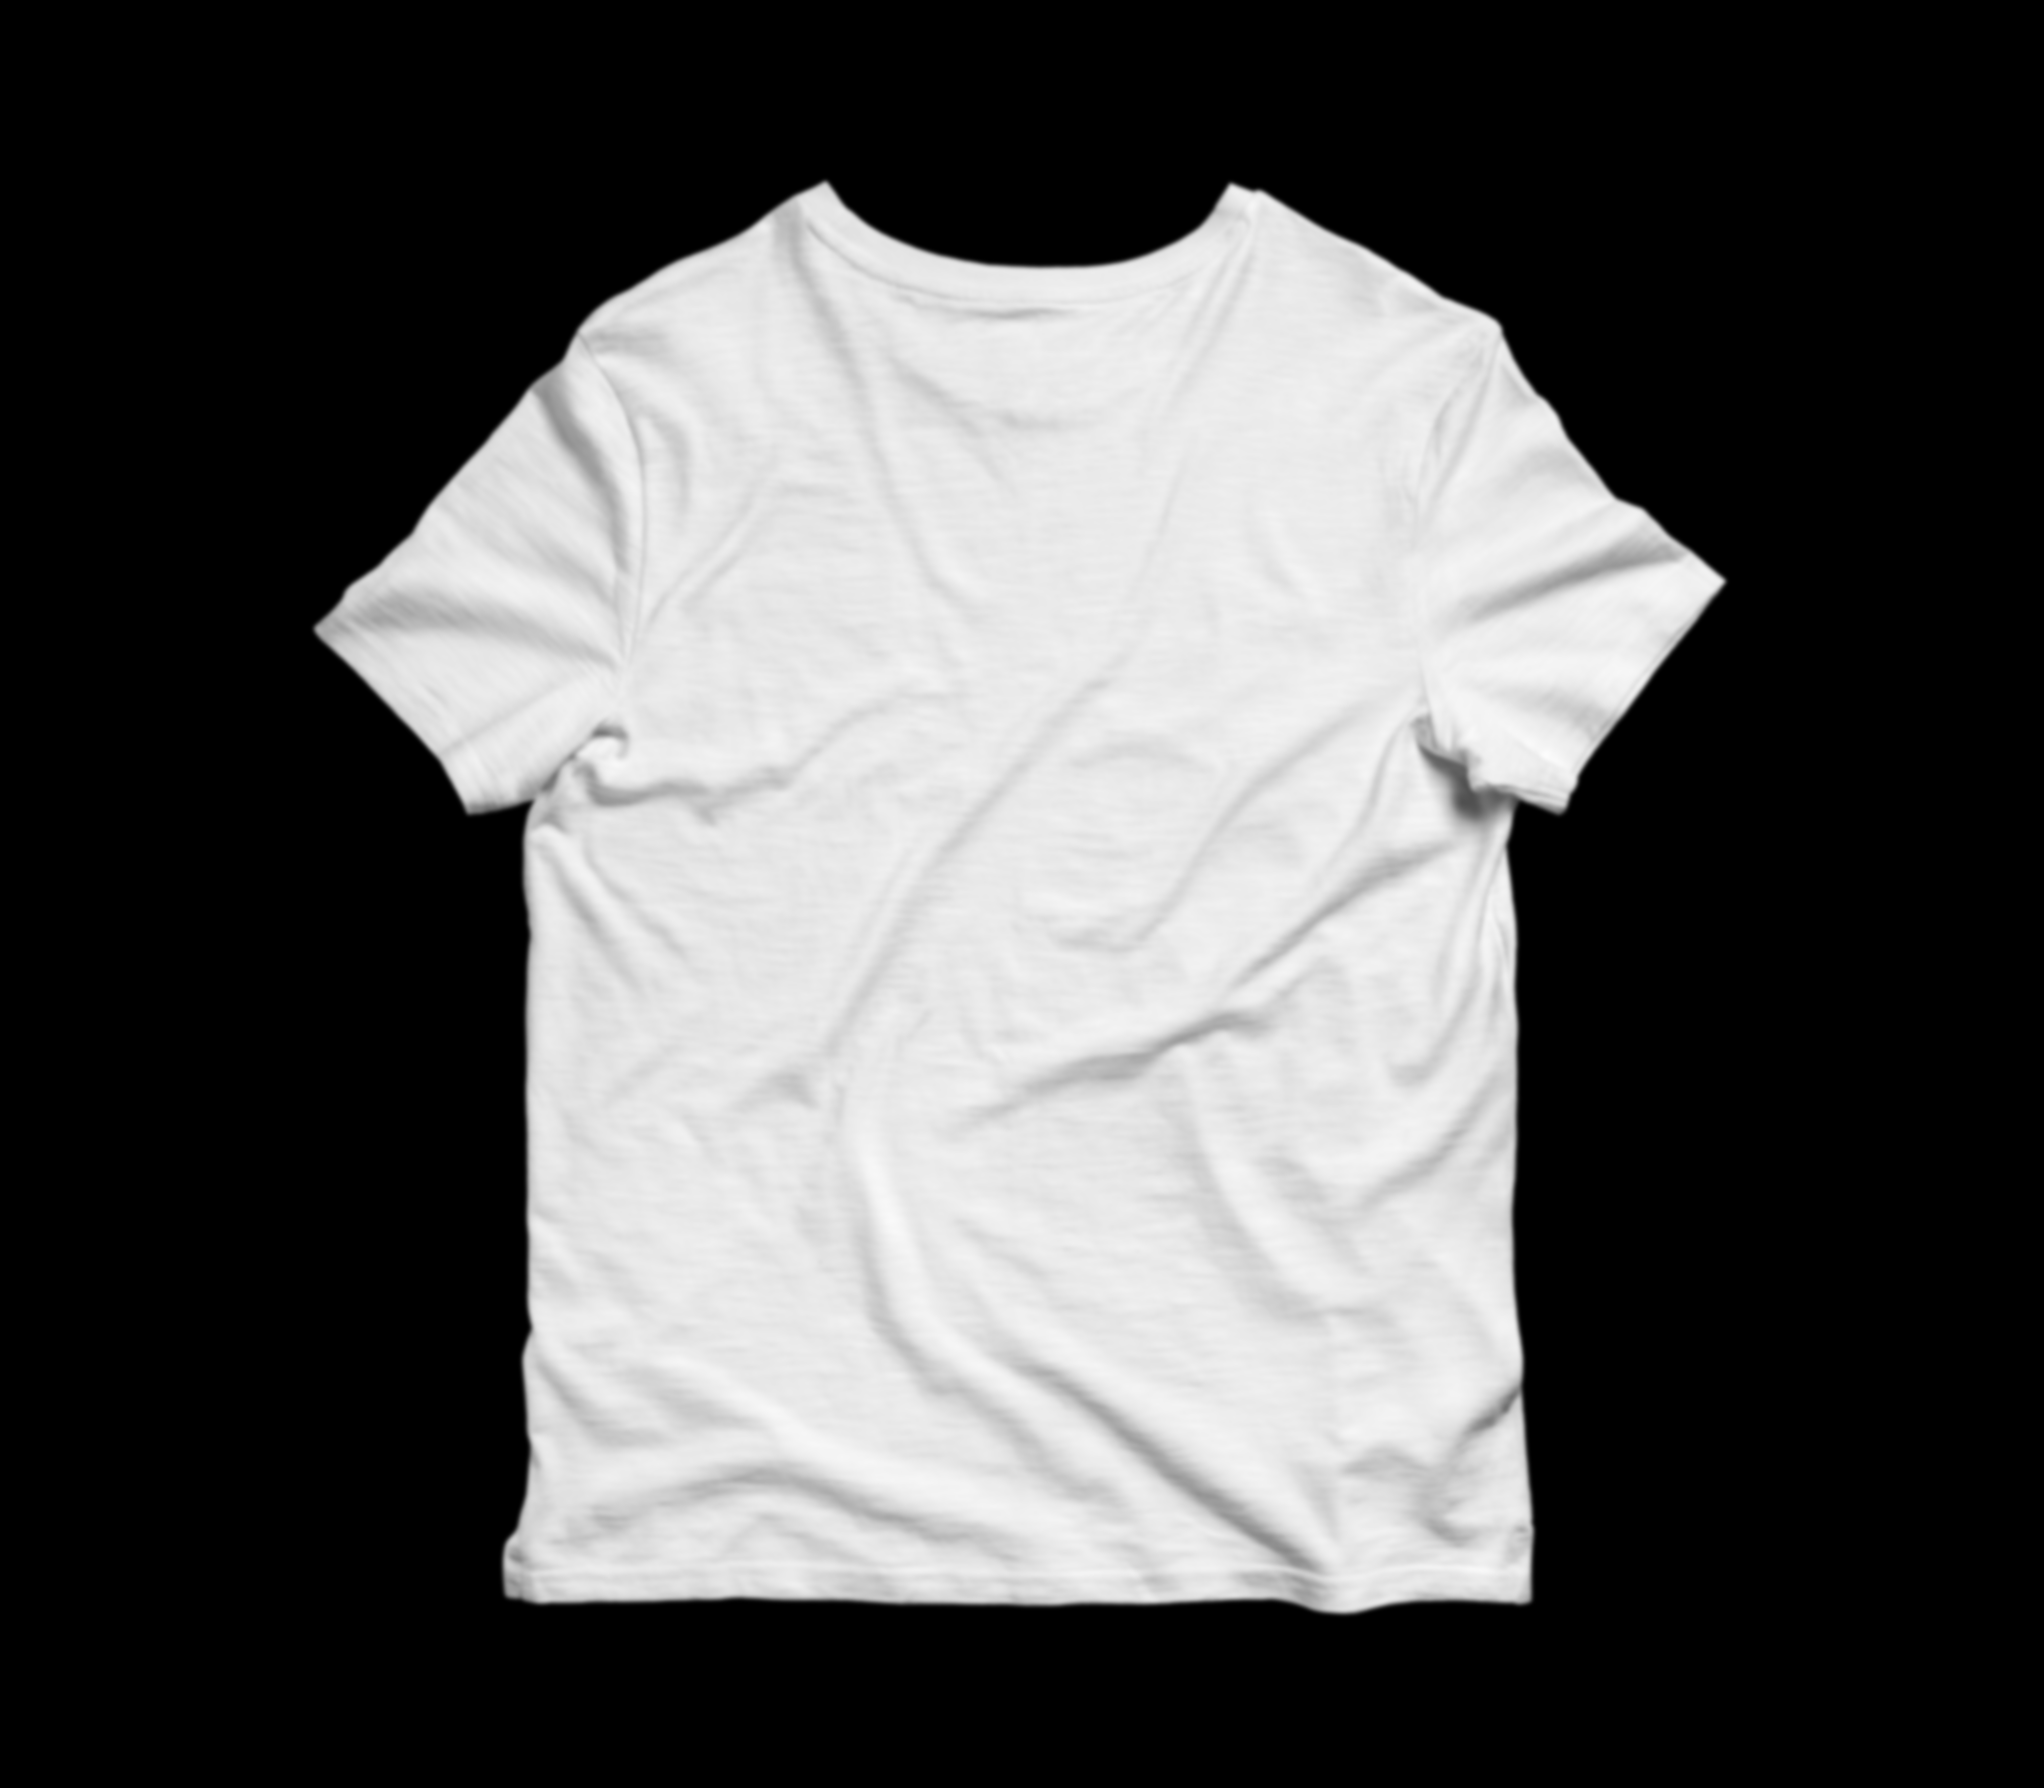
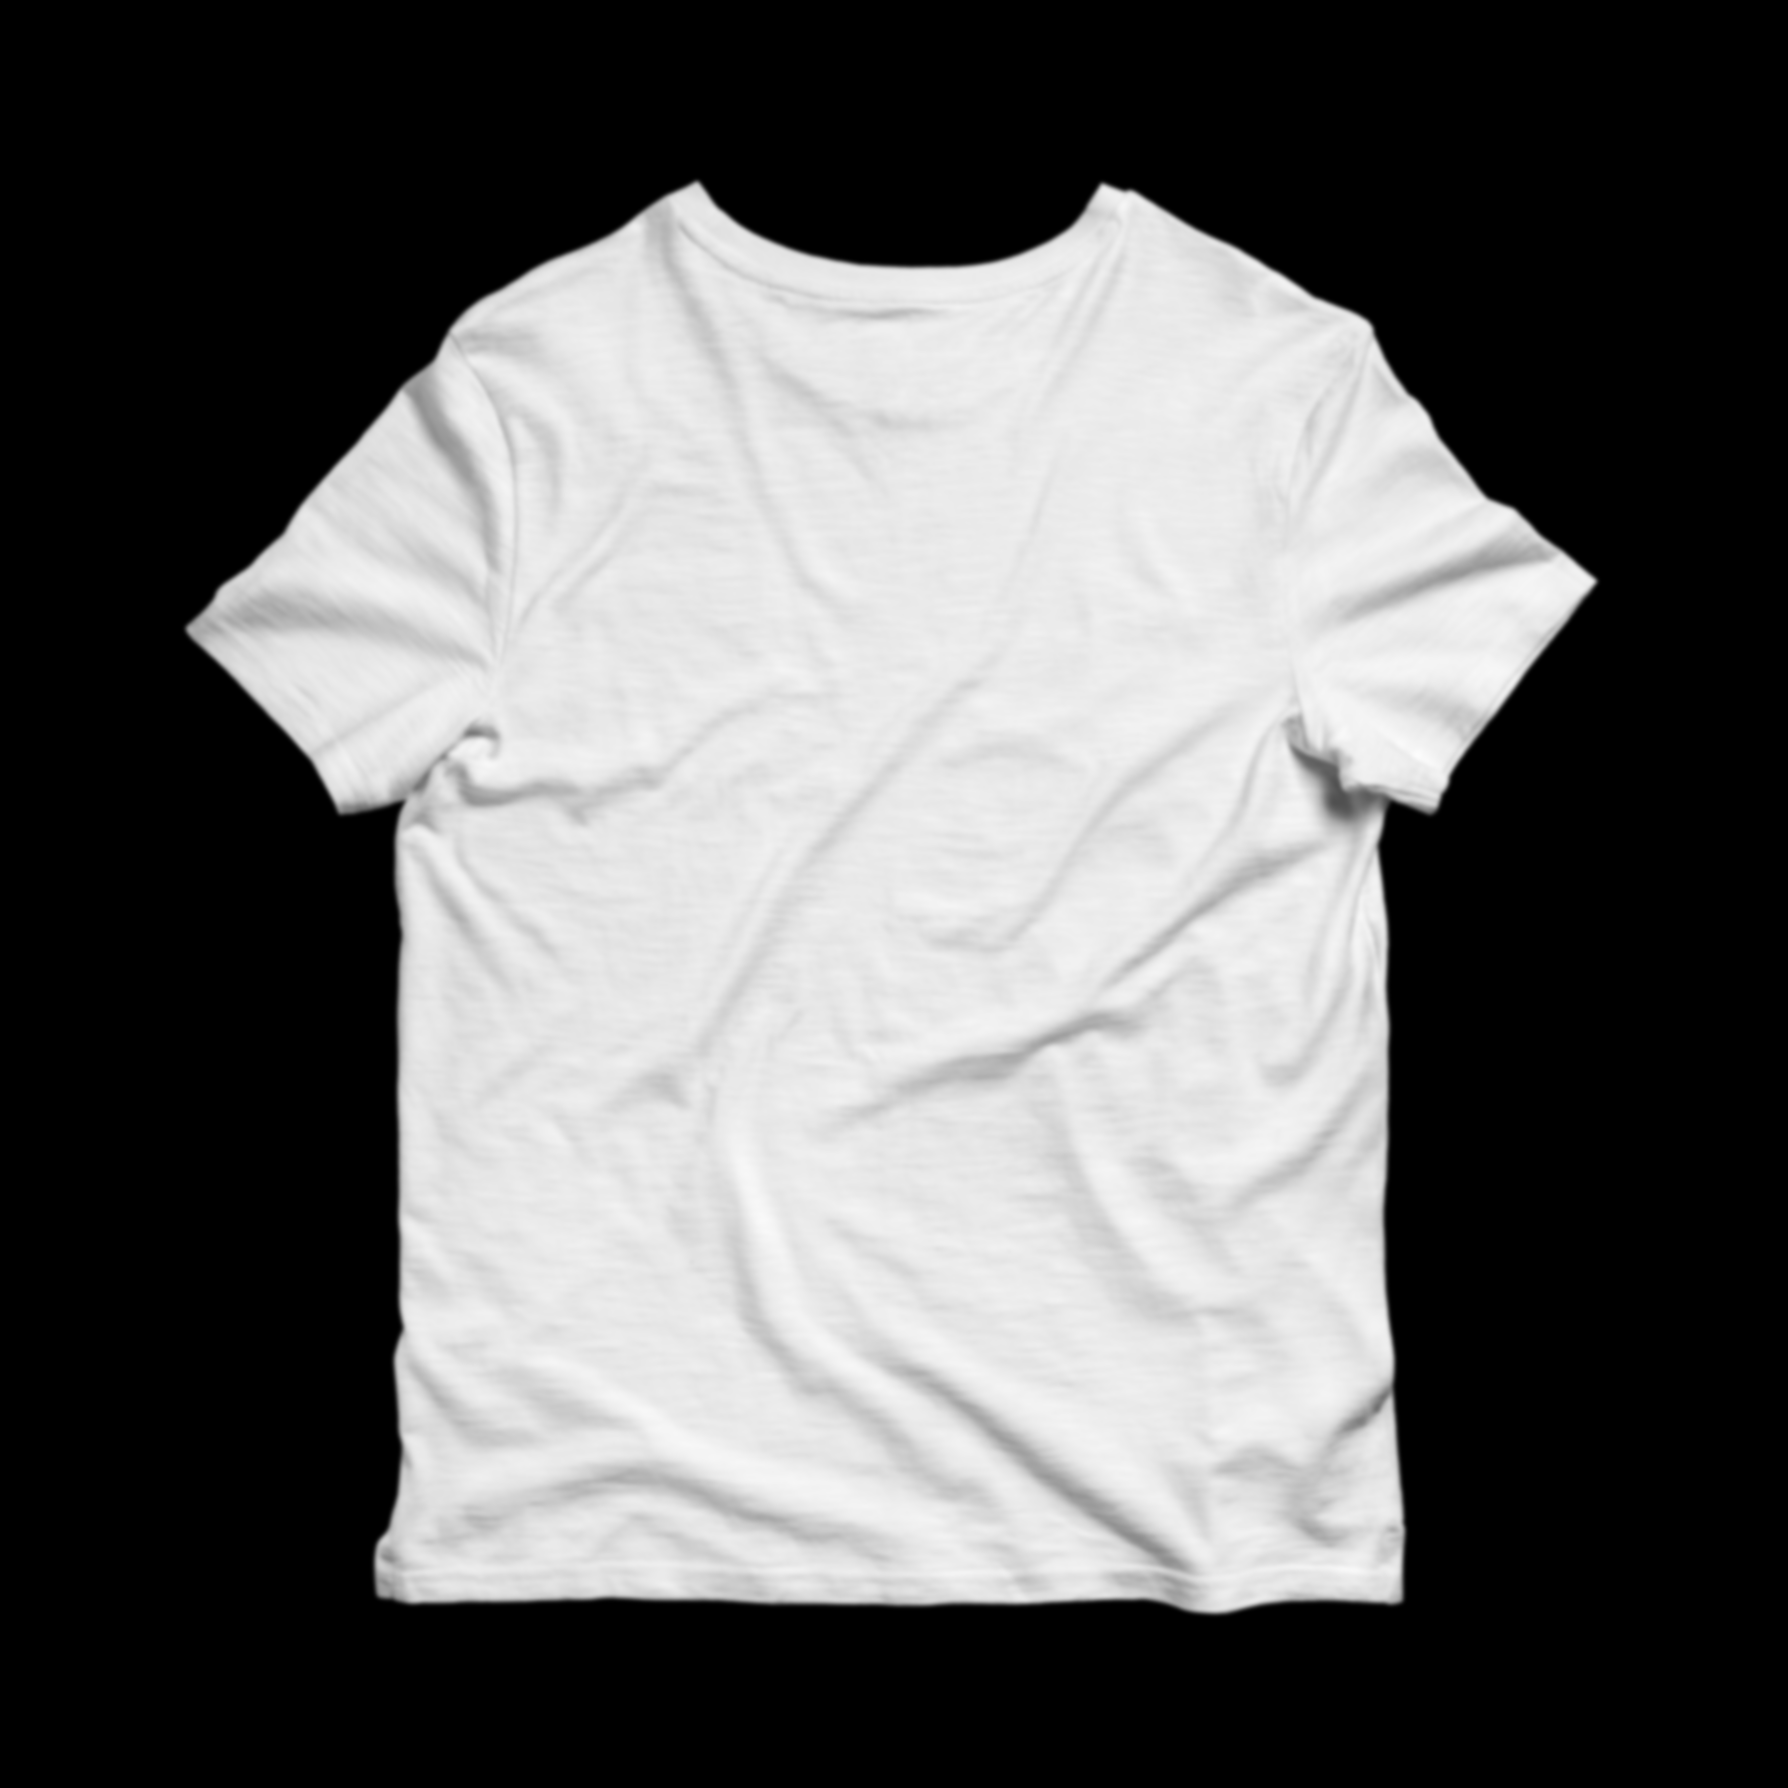
merch page product pic size

diff --git a/fullstacksite/client/src/views/MerchPage.js b/fullstacksite/client/src/views/MerchPage.js
@@ -6,6 +6,8 @@ import Tshirt1 from "../assets/Tshirt1-square.jpg";
 import Album1 from "../assets/album1.png";
 import single1 from "../assets/honey.png";
 import single2 from "../assets/lalalemon.png";
+import Tshirt2 from "../assets/cat_whitetshirtfront.png";
+import hat from "../assets/cat_capfront.png";
 
 function MerchPage(){
     return (
@@ -29,6 +31,14 @@ function MerchPage(){
                 <div className={merch.tile}>
                     <img className={merch.pic} src={Tshirt1} alt='White Tee'/>
                     <Tag name='tshirt1' description='White Tee' price='£ 3.99'/>
+                </div>
+                <div className={merch.tile}>
+                    <img className={merch.pic} src={Tshirt2} alt='Cat white Tee'/>
+                    <Tag name='tshirt2' description='Cat white Tee' price='£ 3.99'/>
+                </div>
+                <div className={merch.tile}>
+                    <img className={merch.pic} src={hat} alt='Cat hat'/>
+                    <Tag name='hat' description='cat hat' price='£ 2.99'/>
                 </div>
             </div>
         </div>

diff --git a/fullstacksite/client/src/Component/ClickButton.js b/fullstacksite/client/src/Component/ClickButton.js
@@ -14,7 +14,7 @@ export function ClickHomeButton(props) {
 
 export function ClickDetailButton(props) {
     return (
-        <Link to={`/merch/${props.path}`} style={{textDecoration: 'none'}}>
+        <Link to={`/merch?id=${props.path}`} style={{textDecoration: 'none'}}>
             <Button variant='contained' style={{width: '50vh'}}>
                 DETAILS
             </Button>

diff --git a/fullstacksite/client/src/views/MerchPage.module.css b/fullstacksite/client/src/views/MerchPage.module.css
@@ -4,17 +4,20 @@
     flex-direction: row;
     position: relative;
     margin: 5vh;
-    padding: 5vh;
+    padding: 5vh 3vh 0 3vh;
     justify-content: space-evenly;
 }
 
 .tile {
     display: flex;
     flex-direction: column;
+    width: 50vh;
 }
 
 .pic {
+    object-fit: contain;
     height: 50vh;
+    /*width: 100%;*/
 }
 
 .tag {

diff --git a/fullstacksite/client/src/views/AboutPage.module.css b/fullstacksite/client/src/views/AboutPage.module.css
@@ -8,7 +8,7 @@
 }
 
 .image {
-    width: 120vh;
+    width: 110vh;
 }
 
 .pic {
@@ -28,7 +28,7 @@
 }
 
 .text {
-    width: 60vh;
+    width: 70vh;
 }
 
 .text .left {
